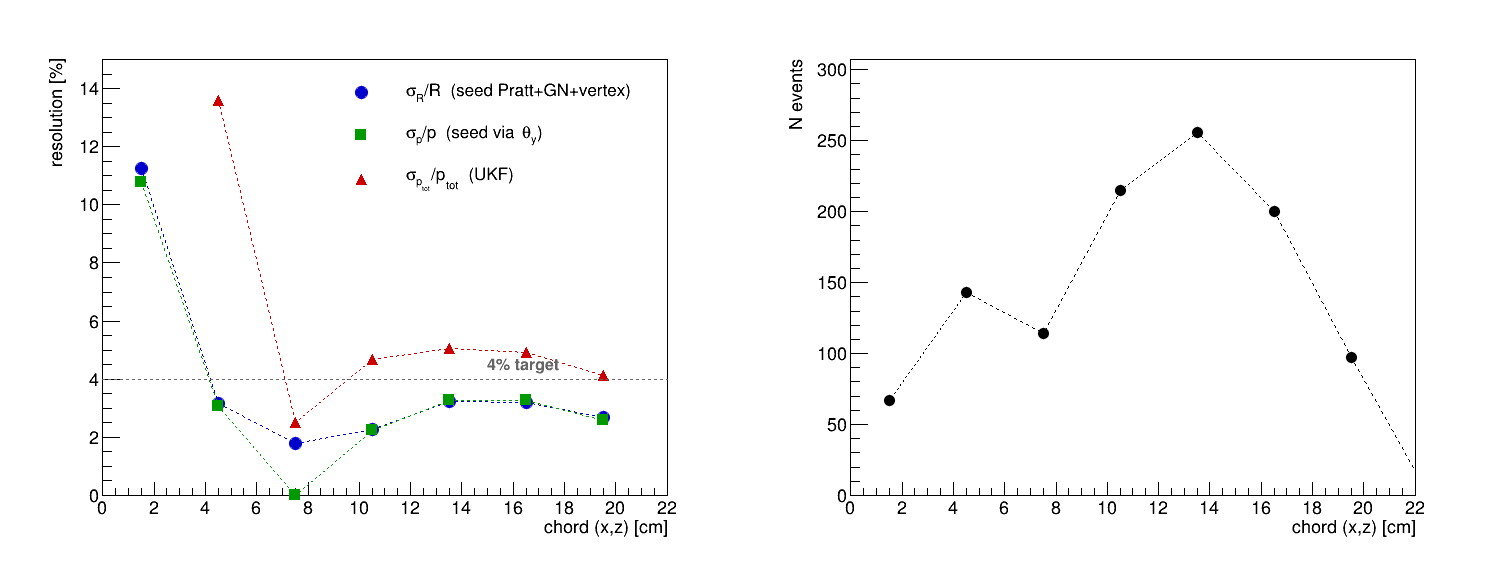
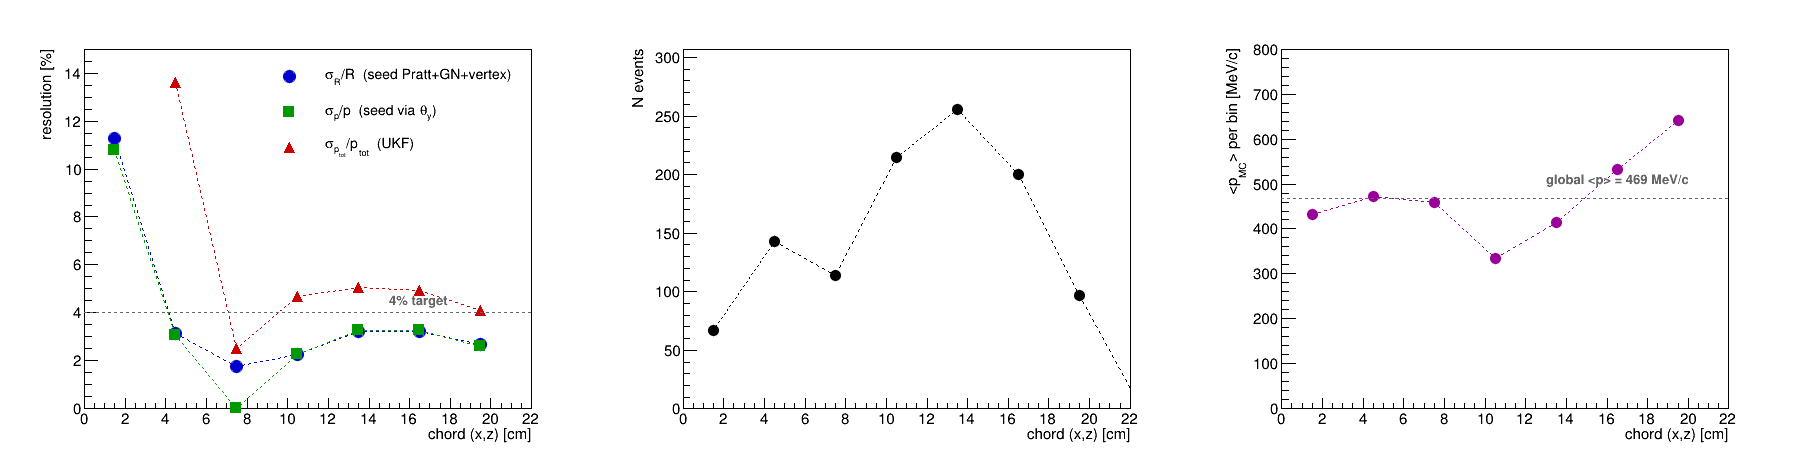
docs(macros): add <p_MC> overlay to σ vs chord plot
Third panel of plot_chord.C now shows the average MC truth momentum
per chord bin, with the global mean overlaid as a horizontal
reference line. Confirms that the chord bins are NOT a proxy for
momentum:

  chord (cm)  <p_MC> (MeV/c)
   1.5         432
   4.5         471
   7.5         458
  10.5         335
  13.5         414
  16.5         531
  19.5         640
  global       469

The non-monotonic <p> vs chord dependence rules out "σ flattens
because longer chord events are higher momentum, which are easier".
The flattening of σ_R/R is genuinely due to the vertex constraint's
geometric lever arm.

diff --git a/macros/tracking/ukf_resolution_2026-05-17/macros/plot_chord.C b/macros/tracking/ukf_resolution_2026-05-17/macros/plot_chord.C
@@ -9,6 +9,7 @@ void plot_chord()
     if (!f.is_open()) { std::cerr << "no csv\n"; return; }
     std::string line; std::getline(f, line);
     auto* gN  = new TGraph();
+    auto* gP  = new TGraph();
     auto* gSR = new TGraph(); auto* gSPs = new TGraph(); auto* gSPu = new TGraph();
     int n = 0;
     while (std::getline(f, line)) {
@@ -16,6 +17,7 @@ void plot_chord()
         if (sscanf(line.c_str(), "%lf,%lf,%lf,%lf,%lf,%lf,%lf,%lf,%lf",
                    &c, &N, &pAvg, &sR, &sPs, &sPu, &br, &bps, &bpu) == 9) {
             gN->SetPoint(n, c, N);
+            if (N >= 10) gP->SetPoint(gP->GetN(), c, pAvg);
             if (std::isfinite(sR) && N >= 10) {
                 gSR ->SetPoint(gSR->GetN(),  c, std::min(15.0, sR));
                 gSPs->SetPoint(gSPs->GetN(), c, std::min(15.0, sPs));
@@ -25,8 +27,8 @@ void plot_chord()
             ++n;
         }
     }
-    TCanvas c("c", "σ vs chord", 1500, 600);
-    c.Divide(2, 1, 0.005, 0.005);
+    TCanvas c("c", "σ vs chord", 1800, 500);
+    c.Divide(3, 1, 0.005, 0.005);
 
     c.cd(1);
     gPad->SetLeftMargin(0.13); gPad->SetBottomMargin(0.13);
@@ -58,6 +60,22 @@ void plot_chord()
     gN->SetMarkerStyle(20); gN->SetMarkerColor(kBlack); gN->SetMarkerSize(1.4);
     gN->SetLineColor(kBlack); gN->SetLineStyle(2);
     gN->Draw("PL SAME");
+
+    c.cd(3);
+    gPad->SetLeftMargin(0.13); gPad->SetBottomMargin(0.13);
+    auto* h3 = new TH1F("h3", ";chord (x,z) [cm]; <p_{MC}> per bin [MeV/c]", 11, 0, 22);
+    h3->SetMinimum(0); h3->SetMaximum(800); h3->Draw();
+    gP->SetMarkerStyle(20); gP->SetMarkerColor(kMagenta+2); gP->SetMarkerSize(1.4);
+    gP->SetLineColor(kMagenta+2); gP->SetLineStyle(2);
+    gP->Draw("PL SAME");
+    // Mean of <p_MC> as horizontal reference line — confirms chord ≠ p proxy.
+    double pAvg = 0; int np = 0;
+    for (int i = 0; i < gP->GetN(); ++i) { double x, y; gP->GetPoint(i, x, y); pAvg += y; ++np; }
+    if (np > 0) pAvg /= np;
+    auto* lAvg = new TLine(0, pAvg, 22, pAvg);
+    lAvg->SetLineStyle(2); lAvg->SetLineColor(kGray+2); lAvg->Draw();
+    TLatex tx; tx.SetTextSize(0.030); tx.SetTextColor(kGray+2);
+    tx.DrawLatex(13, pAvg + 30, Form("global <p> = %.0f MeV/c", pAvg));
 
     c.SaveAs(here + "/plots/sigma_vs_chord.png");
 }
